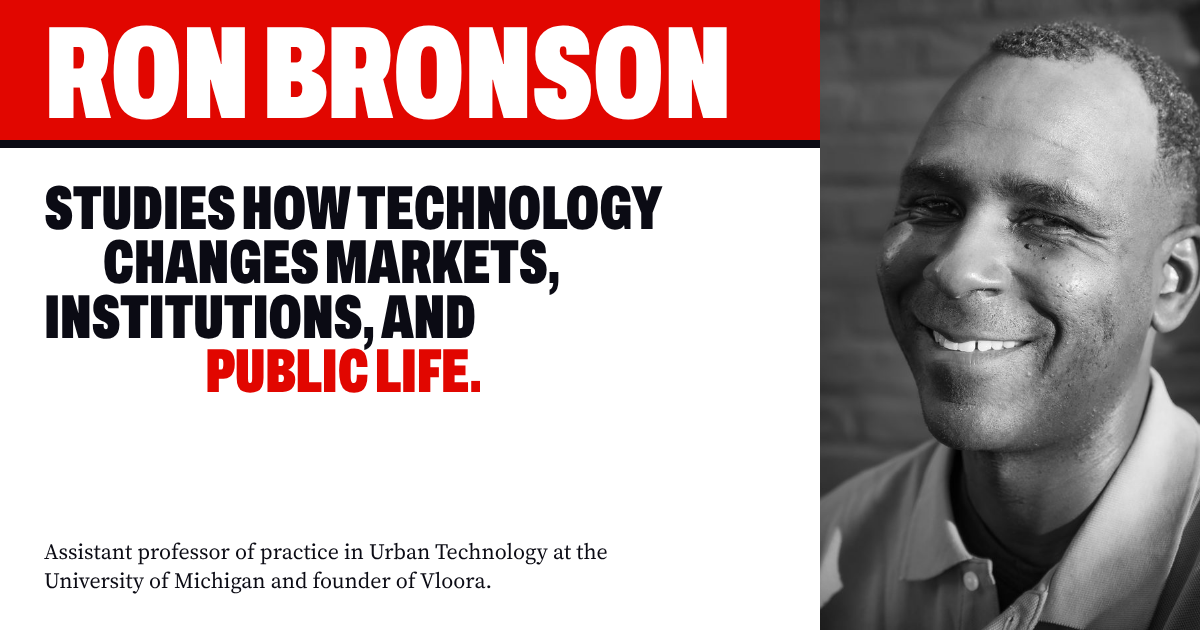
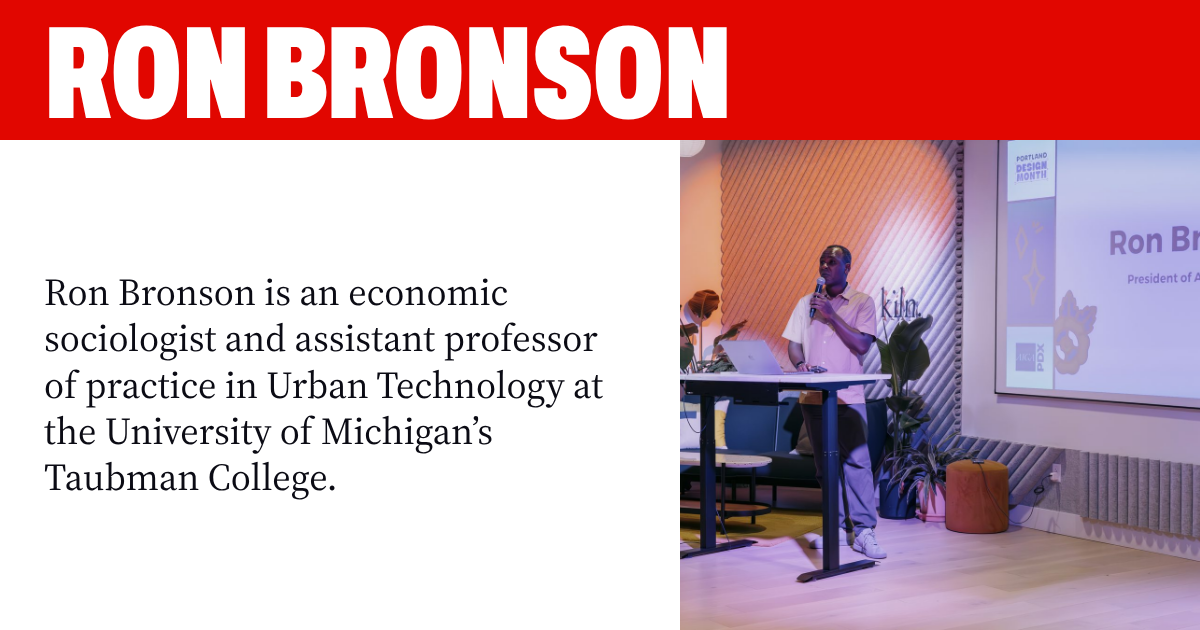
Redraw the social card without the headline
Name bar, the first sentence of the introduction and the Design Month
photo, matching the front page.

Claude-Session: https://claude.ai/code/session_01SbtnVLqkvt1RQAG6JB2FNV

diff --git a/assets/og.html b/assets/og.html
@@ -22,32 +22,27 @@
   2400×1260 file while og:image:width/height in index.html still declare
   1200×630. Change one and you have to change the other.
 -->
-<!-- 2 November 2026: redrawn in the red tabloid style of the current front
-     page: the name bar, the headline, the portrait. -->
+<!-- 5 November 2026: redrawn to match the field practitioner front page.
+     Ron removed the headline, so the card has none: the name bar, the
+     first sentence of the introduction, and the Design Month photo the
+     page opens with. -->
 <style>
   @font-face { font-family:"Archivo"; src:url("fonts/gallery/archivo-variable.woff2") format("woff2"); font-weight:100 900; font-stretch:62% 125%; }
   @font-face { font-family:"Source Serif 4"; src:url("fonts/gallery/source-serif-4-variable.woff2") format("woff2"); font-weight:200 900; }
   * { box-sizing:border-box; margin:0; padding:0; }
   html, body { width:1200px; height:630px; overflow:hidden; }
-  body { display:grid; grid-template-columns:1fr 380px; background:#fff; color:#0b0b14; }
-  .tx { display:flex; flex-direction:column; }
+  body { display:grid; grid-template-rows:auto 1fr; background:#fff; color:#0b0b14; }
   .bar { background:#e10600; color:#fff; padding:22px 44px 12px; font-family:"Archivo",Arial,sans-serif; font-weight:900; font-stretch:62%; font-variation-settings:"wdth" 62; text-transform:uppercase; font-size:132px; line-height:.8; letter-spacing:-.01em; white-space:nowrap; }
-  .rule { height:8px; background:#0b0b14; }
-  .h { padding:34px 44px 0; font-family:"Archivo",Arial,sans-serif; font-weight:900; font-stretch:62%; font-variation-settings:"wdth" 62; text-transform:uppercase; font-size:62px; line-height:.88; letter-spacing:-.01em; }
-  .h span { display:block; white-space:nowrap; }
-  .h span:nth-child(2) { padding-left:8%; }
-  .h span:nth-child(4) { padding-left:22%; color:#e10600; }
-  .d { margin-top:auto; padding:0 44px 34px; font-family:"Source Serif 4",Georgia,serif; font-size:22px; line-height:1.35; max-width:720px; }
-  img { width:380px; height:630px; object-fit:cover; object-position:50% 30%; display:block; }
+  .row { display:grid; grid-template-columns:1fr 520px; min-height:0; }
+  .d { align-self:center; padding:0 44px; font-family:"Source Serif 4",Georgia,serif; font-size:38px; line-height:1.22; }
+  img { width:520px; height:100%; object-fit:cover; object-position:30% 40%; display:block; }
 </style>
 </head>
 <body>
-  <div class="tx">
-    <div class="bar">Ron Bronson</div>
-    <div class="rule"></div>
-    <p class="h"><span>Studies how technology</span><span>changes markets,</span><span>institutions, and</span><span>public life.</span></p>
-    <p class="d">Assistant professor of practice in Urban Technology at the University of Michigan and founder of Vloora.</p>
+  <div class="bar">Ron Bronson</div>
+  <div class="row">
+    <p class="d">Ron Bronson is an economic sociologist and assistant professor of practice in Urban Technology at the University of Michigan&rsquo;s Taubman College.</p>
+    <img src="design-month.jpg" alt="" />
   </div>
-  <img src="profile.jpg" alt="" />
 </body>
 </html>

diff --git a/index.html b/index.html
@@ -14,7 +14,7 @@
 <meta property="og:image" content="https://masthead.ronbronson.com/assets/og.png" />
 <meta property="og:image:width" content="1200" />
 <meta property="og:image:height" content="630" />
-<meta property="og:image:alt" content="Ron Bronson, his portrait, and the words Studies how technology changes markets, institutions, and public life." />
+<meta property="og:image:alt" content="Ron Bronson&rsquo;s name in a red bar, the first sentence of his introduction, and a photo of him speaking at Portland Design Month." />
 <meta name="twitter:card" content="summary_large_image" />
 <meta name="twitter:title" content="Ron Bronson" />
 <meta name="twitter:description" content="Ron Bronson is an economic sociologist and assistant professor of practice in Urban Technology at the University of Michigan&rsquo;s Taubman College. His research examines how platforms, software and systems subvert the social contract and what the public can do about it." />

diff --git a/docs/aar-field-practitioner-2026-11-05.md b/docs/aar-field-practitioner-2026-11-05.md
@@ -56,7 +56,6 @@ The source is the canvas board "ronbronson.com, field practitioner of public lif
 ## 6. Next run
 
 - Get URLs for the three unpublished pieces, or have Ron confirm they stay out.
-- Decide on a new social card.
 - Decide whether About needs a link somewhere on the page now that it has left the nav.
 
 ## Follow-up: claims stay as made (5 November 2026)
@@ -66,3 +65,11 @@ The source is the canvas board "ronbronson.com, field practitioner of public lif
 - **Research sources:** The rails of trust, Platform extraction and urban life, and Destruction as a Service are back under their claims as the board has them. They appear as plain titles because no URLs were given. The Disintermediation Problem link is removed.
 - **The Hidden Cost of Everything:** unlinked, in Writing and under its claim. Writing now labels it "Book", as on the board.
 - **Standing instruction for later runs:** claims Ron has made on a board stay as written. Don't drop them or hold them back for verification.
+
+## Follow-up: the social card (5 November 2026)
+
+> THERE HEADLINE IS GONE BECAUSE I REMOVED IT
+
+- **Card redrawn:** `assets/og.html` and `assets/og.png` match the new page. The card has the red name bar, the first sentence of the introduction and the Design Month photo, with no headline.
+- **Image description:** the `og:image:alt` text in `index.html` now describes the new card.
+- **Size:** still 1200×630.
